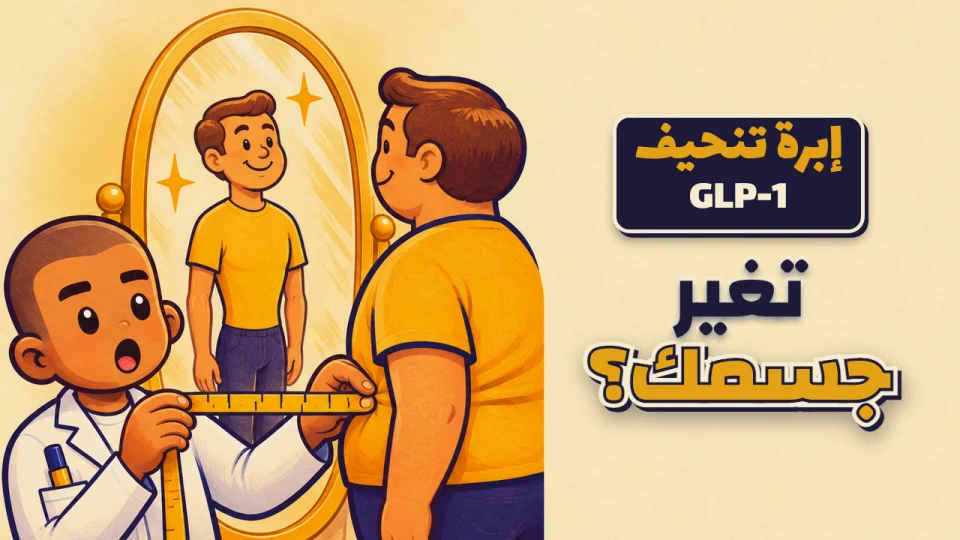
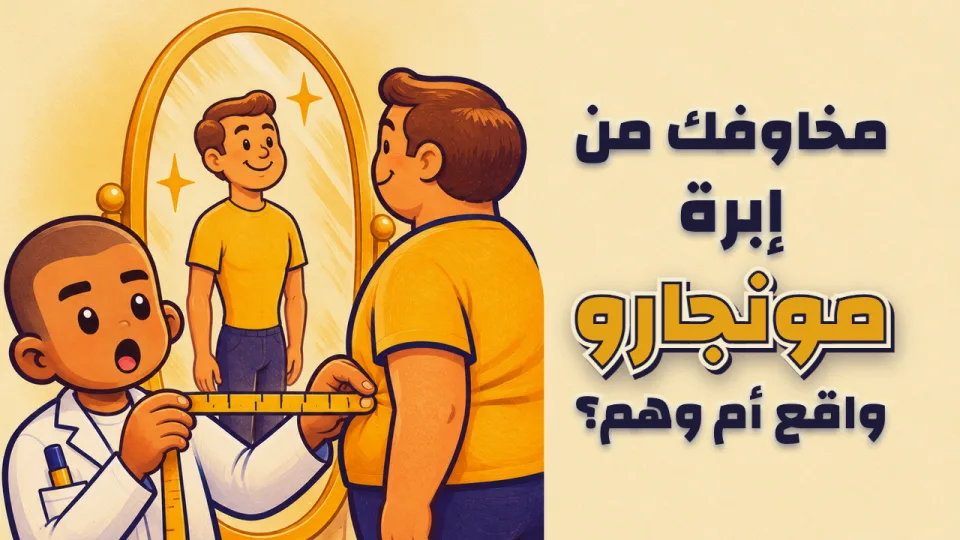
EP5 Arabic card image: «مخاوفك من إبرة مونجارو: واقع أم وهم؟» (Mo 11-09 pick B, 'Push it')

Changed region(s): [[0.5938, 0.1778, 0.9688, 0.8296]]

diff --git a/index.html b/index.html
@@ -639,7 +639,7 @@ html[data-theme="light"] .f-chem{--c:#A16207!important}
           <div class="ep-thumb">
             <span class="ep-pic">
               <img class="pic-en" src="episodes/assets/ep05/thumb-en-960.webp?v=1107g" srcset="episodes/assets/ep05/thumb-en-960.webp?v=1107g 960w, episodes/assets/ep05/thumb-en.webp?v=1107g 1280w" sizes="(max-width:640px) 92vw, 760px" width="1280" height="720" alt="GLP-1 weight-loss shot: changes your body? Episode 5" loading="lazy">
-              <img class="pic-ar" src="episodes/assets/ep05/thumb-ar-960.webp?v=1107g" srcset="episodes/assets/ep05/thumb-ar-960.webp?v=1107g 960w, episodes/assets/ep05/thumb-ar.webp?v=1107g 1280w" sizes="(max-width:640px) 92vw, 760px" width="1280" height="720" alt="إبرة تنحيف GLP-1: تغير جسمك؟ الحلقة 5" loading="lazy">
+              <img class="pic-ar" src="episodes/assets/ep05/thumb-ar-960.webp?v=1109b" srcset="episodes/assets/ep05/thumb-ar-960.webp?v=1109b 960w, episodes/assets/ep05/thumb-ar.webp?v=1109b 1280w" sizes="(max-width:640px) 92vw, 760px" width="1280" height="720" alt="مخاوفك من إبرة مونجارو: واقع أم وهم؟ الحلقة 5" loading="lazy">
             </span>
             <span class="ep-strip">
               <img class="logo-en" src="assets/logo-white.png" alt="Addani Labs" width="480" height="151"><img class="logo-ar" src="assets/logo-ar-white.png" alt="مختبرات عداني" width="978" height="210">
